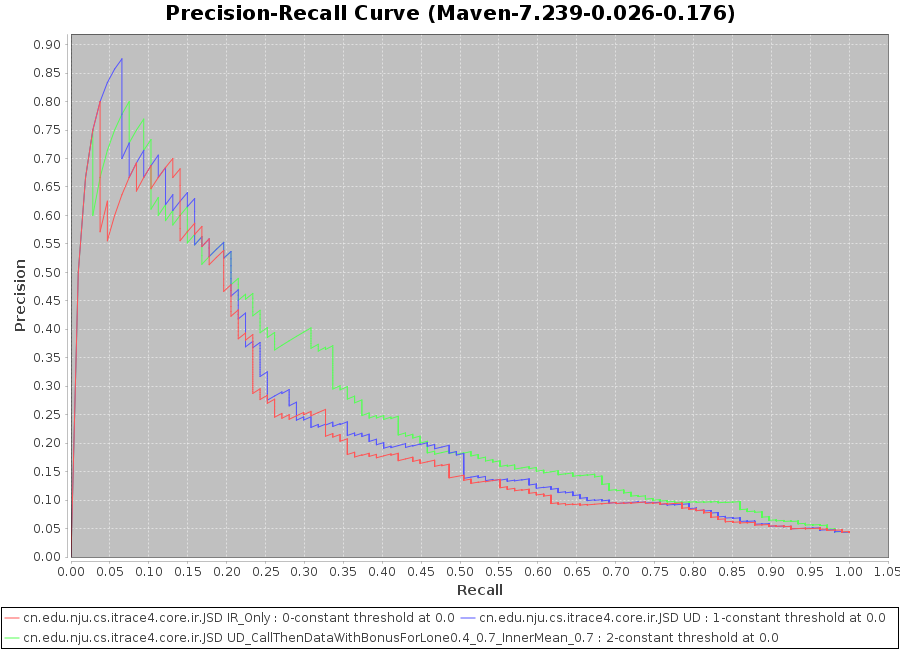
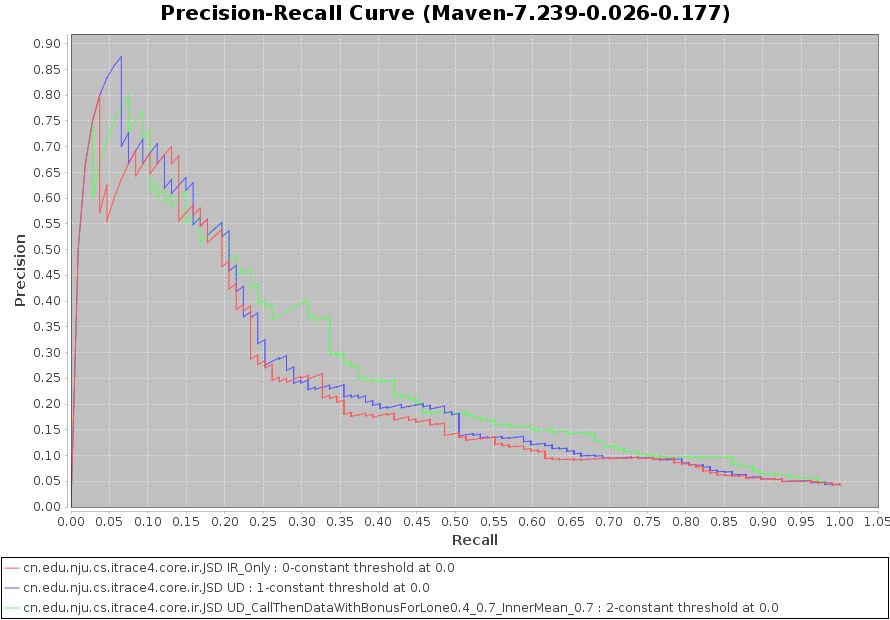
stable sort

Changed region(s): [[0.0, 0.0613, 1.0, 1.0], [0.091, 0.0, 0.9708, 0.0613], [0.1213, 0.0919, 0.1517, 0.1226]]

diff --git a/src/cn/edu/nju/cs/itrace4/demo/algo/outerVertex/process/UD_CallSubGraphWithBonusForLone.java b/src/cn/edu/nju/cs/itrace4/demo/algo/outerVertex/process/UD_CallSubGraphWithBonusForLone.java
@@ -16,6 +16,7 @@ import cn.edu.nju.cs.itrace4.core.document.SimilarityMatrix;
 import cn.edu.nju.cs.itrace4.core.document.SingleLink;
 import cn.edu.nju.cs.itrace4.core.document.StringHashSet;
 import cn.edu.nju.cs.itrace4.demo.algo.SortBySubGraph;
+import cn.edu.nju.cs.itrace4.demo.algo.SortVertexByScore;
 import cn.edu.nju.cs.itrace4.demo.relation.StoreCallSubGraph;
 import cn.edu.nju.cs.itrace4.demo.relation.SubGraph;
 import cn.edu.nju.cs.itrace4.relation.CallDataRelationGraph;
@@ -343,8 +344,10 @@ public class UD_CallSubGraphWithBonusForLone implements CSTI{
 	}
 	
 	
-	/*
-	 * mean in inner  
+	/**
+	 * @author zzf
+	 * @date 2017.10.25 
+	 * @description ensure stable sort.
 	 */
 	public SimilarityMatrix processLoneVertexInnerMean(SimilarityMatrix matrix, TextDataset textDataset){
 		 SimilarityMatrix oracle = textDataset.getRtm();
@@ -355,6 +358,7 @@ public class UD_CallSubGraphWithBonusForLone implements CSTI{
 		 filterSubGraphsList(targetArtifacts);
 		 fillLoneVertex(loneVertexSet,callSubGraphList);
 		 int loneVertexSize = loneVertexSet.size();
+		 
 		 for(String req:matrix.sourceArtifactsIds()){
 			//it will get maxId for every subGraph after sort.
 			Collections.sort(callSubGraphList,new SortBySubGraph(vertexIdNameMap,matrix,req));
@@ -362,13 +366,16 @@ public class UD_CallSubGraphWithBonusForLone implements CSTI{
 			double maxScore = matrix.getScoreForLink(req, vertexIdNameMap.get(maxId));
 			int index = 1;
 			int subGraphAmount = callSubGraphList.size() - loneVertexSize;
+			
 			for(SubGraph subGraph:callSubGraphList){
 				List<Integer> vertexList = subGraph.getVertexList();
+				Collections.sort(vertexList, new SortVertexByScore(vertexIdNameMap,matrix,req));
 				if(vertexList.size()==1){
 					continue;
 				}
 				//regard the max score in this subGraph as represent
-				String represent = vertexIdNameMap.get(subGraph.getMaxId());
+				int localMaxId = subGraph.getMaxId();
+				String represent = vertexIdNameMap.get(localMaxId);
 				double representValue = matrix.getScoreForLink(req, represent);
 				double maxScoreInThisSubGraph = representValue;
 				if(index<subGraphAmount*percent){
@@ -383,21 +390,37 @@ public class UD_CallSubGraphWithBonusForLone implements CSTI{
 				}
 				if(oracle.isLinkAboveThreshold(req,represent)&&index<subGraphAmount*percent){
 					subGraph.addReq(req);
-					Map<String,Double> vertexMapWeight = new HashMap<String,Double>();
-					giveBonusForNeighbor(subGraph,subGraph.getMaxId(),vertexMapWeight);
 					
-					for(String vertexName:vertexMapWeight.keySet()){
+					/**
+					 * @author zzf
+					 * @date 2017/10/25
+					 * @description stable sort 
+					 */
+					for(int vertexId:vertexList) {
+						String vertexName = vertexIdNameMap.get(vertexId);
 						double curValue = matrix.getScoreForLink(req, vertexName);
 						if(!vertexName.equals(represent)){
 							int graphSize = subGraph.getVertexList().size();
 							curValue = Math.min(maxScore*0.9999, curValue+maxScore/(graphSize-1));
-							//curValue = Math.min(maxScore, curValue+maxScore/allWeight*curWeight);
 							maxScoreInThisSubGraph = Math.max(maxScoreInThisSubGraph, curValue);
 						}
 						matrix_ud.addLink(req, vertexName,curValue);
 					}
 					
-					matrix_ud.addLink(req, represent, representValue);
+//					for(String vertexName:vertexMapWeight.keySet()){
+//						double curValue = matrix.getScoreForLink(req, vertexName);
+//						if(!vertexName.equals(represent)){
+//							int graphSize = subGraph.getVertexList().size();
+//							curValue = Math.min(maxScore*0.9999, curValue+maxScore/(graphSize-1));
+//							//curValue = Math.min(maxScore, curValue+maxScore/allWeight*curWeight);
+//							maxScoreInThisSubGraph = Math.max(maxScoreInThisSubGraph, curValue);
+//						}
+//						matrix_ud.addLink(req, vertexName,curValue);
+//					}
+//					
+//					matrix_ud.addLink(req, represent, representValue);
+					
+					
 				}
 				else{
 					for(int id:vertexList){
@@ -421,6 +444,100 @@ public class UD_CallSubGraphWithBonusForLone implements CSTI{
 		return res;
 	}
 	
+	
+	
+	
+	/*
+	 * mean in inner  
+	 */
+//	public SimilarityMatrix processLoneVertexInnerMean(SimilarityMatrix matrix, TextDataset textDataset){
+//		 SimilarityMatrix oracle = textDataset.getRtm();
+//		 SimilarityMatrix matrix_ud = new SimilarityMatrix();
+//		 //get all target artifacts
+//		 Set<String> targetArtifacts = matrix.targetArtifactsIds();
+//		 //remove target artifacts which not corresponding with any source artifacts.
+//		 filterSubGraphsList(targetArtifacts);
+//		 fillLoneVertex(loneVertexSet,callSubGraphList);
+//		 int loneVertexSize = loneVertexSet.size();
+//		 
+//		 matrix.allLinks();
+//		 for(String req:matrix.sourceArtifactsIds()){
+//			//it will get maxId for every subGraph after sort.
+//			Collections.sort(callSubGraphList,new SortBySubGraph(vertexIdNameMap,matrix,req));
+//			int maxId = callSubGraphList.get(0).getMaxId();
+//			double maxScore = matrix.getScoreForLink(req, vertexIdNameMap.get(maxId));
+//			int index = 1;
+//			int subGraphAmount = callSubGraphList.size() - loneVertexSize;
+//			for(SubGraph subGraph:callSubGraphList){
+//				List<Integer> vertexList = subGraph.getVertexList();
+//				if(vertexList.size()==1){
+//					continue;
+//				}
+//				//regard the max score in this subGraph as represent
+//				String represent = vertexIdNameMap.get(subGraph.getMaxId());
+//				double representValue = matrix.getScoreForLink(req, represent);
+//				double maxScoreInThisSubGraph = representValue;
+//				if(index<subGraphAmount*percent){
+//					if(valid.containsKey(req)){
+//						valid.get(req).add(represent);
+//					}
+//					else{
+//						valid.put(req, new HashSet<String>());
+//						valid.get(req).add(represent);
+//					}
+//					subGraph.setVisited(req);
+//				}
+//				if(oracle.isLinkAboveThreshold(req,represent)&&index<subGraphAmount*percent){
+//					subGraph.addReq(req);
+//					
+//					/**
+//					 * @author zzf
+//					 * @date 2017/10/25
+//					 * @description stable sort 
+//					 */
+//					for(int vertexId:vertexList) {
+//						String vertexName = "";
+//					}
+//					
+////					Map<String,Double> vertexMapWeight = new HashMap<String,Double>();
+////					giveBonusForNeighbor(subGraph,subGraph.getMaxId(),vertexMapWeight);
+////					for(String vertexName:vertexMapWeight.keySet()){
+////						double curValue = matrix.getScoreForLink(req, vertexName);
+////						if(!vertexName.equals(represent)){
+////							int graphSize = subGraph.getVertexList().size();
+////							curValue = Math.min(maxScore*0.9999, curValue+maxScore/(graphSize-1));
+////							//curValue = Math.min(maxScore, curValue+maxScore/allWeight*curWeight);
+////							maxScoreInThisSubGraph = Math.max(maxScoreInThisSubGraph, curValue);
+////						}
+////						matrix_ud.addLink(req, vertexName,curValue);
+////					}
+////					
+////					matrix_ud.addLink(req, represent, representValue);
+//					
+//					
+//				}
+//				else{
+//					for(int id:vertexList){
+//						double curValue = matrix.getScoreForLink(req, vertexIdNameMap.get(id));
+//						matrix_ud.addLink(req, vertexIdNameMap.get(id),curValue);//
+//					}
+//				}
+//				index++;
+//			}///
+//		}//req
+//		 //this.giveBonusForLoneVertexListUsingNewEquation(matrix, matrix_ud, callSubGraphList);
+//		giveBonusForLoneRelativeVertexList(matrix, matrix_ud, callSubGraphList);
+//		//giveBonusForLoneVertexList(matrix,matrix_ud,callSubGraphList); 
+//		
+//		LinksList allLinks = matrix_ud.allLinks();
+//		Collections.sort(allLinks, Collections.reverseOrder());
+//		SimilarityMatrix res = new SimilarityMatrix();
+//		for(SingleLink link:allLinks){
+//			res.addLink(link.getSourceArtifactId(), link.getTargetArtifactId(),link.getScore());
+//		}
+//		return res;
+//	}
+//	
 	/**
 	 * maybe give bonus two times.  
 	 */

diff --git a/src/cn/edu/nju/cs/itrace4/demo/algo/outerVertex/process/UD_DataSubGraphWithBonusForLoneWithTrans.java b/src/cn/edu/nju/cs/itrace4/demo/algo/outerVertex/process/UD_DataSubGraphWithBonusForLoneWithTrans.java
@@ -16,6 +16,7 @@ import cn.edu.nju.cs.itrace4.core.document.SimilarityMatrix;
 import cn.edu.nju.cs.itrace4.core.document.SingleLink;
 import cn.edu.nju.cs.itrace4.core.document.StringHashSet;
 import cn.edu.nju.cs.itrace4.demo.algo.SortBySubGraph;
+import cn.edu.nju.cs.itrace4.demo.algo.SortVertexByScore;
 import cn.edu.nju.cs.itrace4.demo.relation.StoreDataSubGraph;
 import cn.edu.nju.cs.itrace4.demo.relation.SubGraph;
 import cn.edu.nju.cs.itrace4.relation.CallDataRelationGraph;
@@ -188,6 +189,8 @@ public class UD_DataSubGraphWithBonusForLoneWithTrans implements CSTI{
 			int subGraphAmount = dataSubGraphList.size()-loneVertexSize;
 			for(SubGraph subGraph:dataSubGraphList){
 				List<Integer> vertexList = subGraph.getVertexList();
+				Collections.sort(vertexList, new SortVertexByScore(vertexIdNameMap,matrix,req));
+				
 				if(vertexList.size()==1){///////only process subGraph which has only one vertex 
 					continue;
 				}
@@ -207,19 +210,34 @@ public class UD_DataSubGraphWithBonusForLoneWithTrans implements CSTI{
 				}
 				if(oracle.isLinkAboveThreshold(req,represent)&&index<subGraphAmount*percent){
 					subGraph.addReq(req);
-					Map<String,Double> vertexMapWeight = new HashMap<String,Double>();
-					giveBonusForNeighbor(subGraph,subGraph.getMaxId(),vertexMapWeight);
-					for(String vertexName:vertexMapWeight.keySet()){
+					/**
+					 * @author zzf
+					 * @date 2017/10/25
+					 * @description stable sort 
+					 */
+					for(int vertexId:vertexList) {
+						String vertexName = vertexIdNameMap.get(vertexId);
 						double curValue = matrix.getScoreForLink(req, vertexName);
 						if(!vertexName.equals(represent)){
 							int graphSize = subGraph.getVertexList().size();
-							curValue = Math.min(maxScore, curValue+maxScore/(graphSize-1));
+							curValue = Math.min(maxScore*0.9999, curValue+maxScore/(graphSize-1));
 							maxScoreInThisSubGraph = Math.max(maxScoreInThisSubGraph, curValue);
 						}
 						matrix_ud.addLink(req, vertexName,curValue);
 					}
-					
-					matrix_ud.addLink(req, represent, representValue);
+//					Map<String,Double> vertexMapWeight = new HashMap<String,Double>();
+//					giveBonusForNeighbor(subGraph,subGraph.getMaxId(),vertexMapWeight);
+//					for(String vertexName:vertexMapWeight.keySet()){
+//						double curValue = matrix.getScoreForLink(req, vertexName);
+//						if(!vertexName.equals(represent)){
+//							int graphSize = subGraph.getVertexList().size();
+//							curValue = Math.min(maxScore*0.9999, curValue+maxScore/(graphSize-1));
+//							maxScoreInThisSubGraph = Math.max(maxScoreInThisSubGraph, curValue);
+//						}
+//						matrix_ud.addLink(req, vertexName,curValue);
+//					}
+//					
+//					matrix_ud.addLink(req, represent, representValue);
 				}
 				else{
 					for(int id:vertexList){

diff --git a/src/cn/edu/nju/cs/itrace4/demo/test/BonusForLoneWithXml.java b/src/cn/edu/nju/cs/itrace4/demo/test/BonusForLoneWithXml.java
@@ -116,18 +116,18 @@ public class BonusForLoneWithXml{
         ObjectInputStream oisForO = new ObjectInputStream(fisForO);
         RelationInfo class_relationForO = (RelationInfo) oisForO.readObject();
 
-        FileInputStream fisForAllDependencies = new FileInputStream(project.getClass_RelationInfoPathWhole());
-        ObjectInputStream oisForAllDependencies = new ObjectInputStream(fisForAllDependencies);
-        RelationInfo class_relationForAllDependencies = (RelationInfo) oisForAllDependencies.readObject();
-        class_relation.setPruning(Setting.callThreshold, Setting.dataThreshold);
-        class_relationForO.setPruning(-1, -1);
-        class_relationForAllDependencies.setPruning(-1, -1);
-
+//        FileInputStream fisForAllDependencies = new FileInputStream(project.getClass_RelationInfoPathWhole());
+//        ObjectInputStream oisForAllDependencies = new ObjectInputStream(fisForAllDependencies);
+//        RelationInfo class_relationForAllDependencies = (RelationInfo) oisForAllDependencies.readObject();
+//        class_relation.setPruning(Setting.callThreshold, Setting.dataThreshold);
+//        class_relationForO.setPruning(-1, -1);
+//        class_relationForAllDependencies.setPruning(-1, -1);
+//
 //        Result result_pruningeCall_Data_Dir = IR.compute(textDataset, model, 
 //        		new PruningCall_Data_Connection_Closenss(class_relation, class_relationForO, 
 //        				class_relationForAllDependencies,
 //        				UseEdge.Call, 1.0, 1.0));
-        
+//        
         MyVisualCurve curve = new MyVisualCurve();
         curve.addLine(result_ir);
         curve.addLine(result_UD_CSTI);
@@ -157,13 +157,13 @@ public class BonusForLoneWithXml{
 		System.out.println("cluster:"+cluster_map);
 		System.out.println("pValue:"+pValue);
 		System.out.println("----------------------------");
-		Map<String,Double> udReqValue = result_ud.getAveragePrecisionByQuery();
-		Map<String,Double> clusterReqValue = result_cluster.getAveragePrecisionByQuery();
-		for(String req:udReqValue.keySet()) {
-			System.out.println("--------------------------");
-			System.out.println(req);
-			System.out.println("ud:"+udReqValue.get(req)+"----"+"cluster:"+clusterReqValue.get(req));
-		}
+//		Map<String,Double> udReqValue = result_ud.getAveragePrecisionByQuery();
+//		Map<String,Double> clusterReqValue = result_cluster.getAveragePrecisionByQuery();
+//		for(String req:udReqValue.keySet()) {
+//			System.out.println("--------------------------");
+//			System.out.println(req);
+//			System.out.println("ud:"+udReqValue.get(req)+"----"+"cluster:"+clusterReqValue.get(req));
+//		}
 	}
 
 	private int getResultSize(Result result) {
